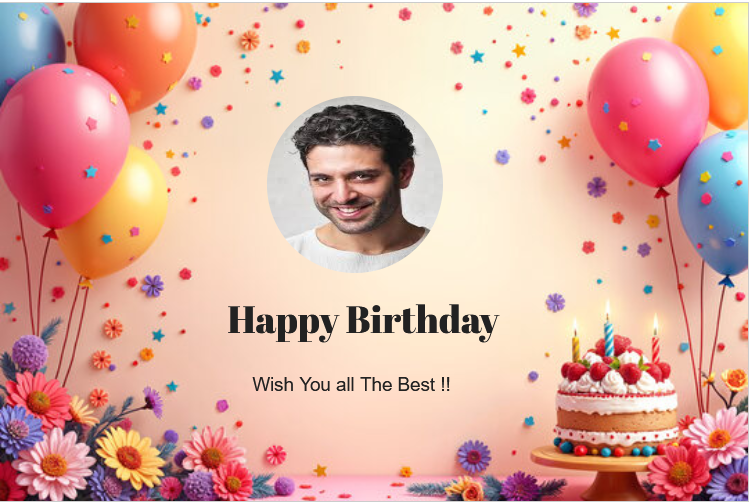
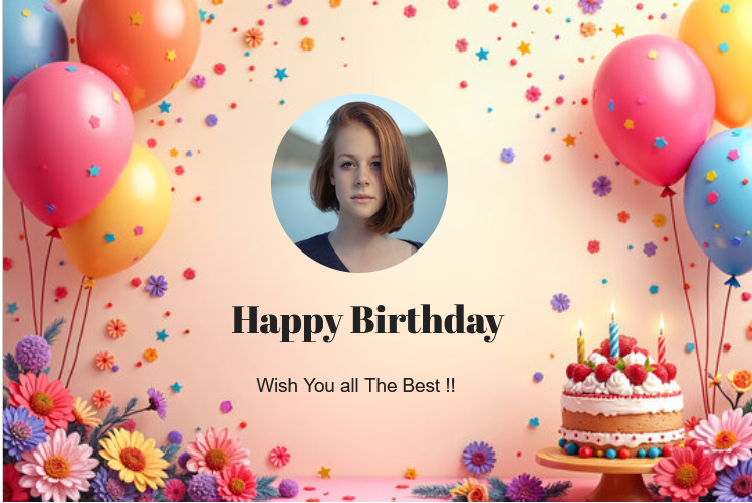
CHnages

diff --git a/database/seeders/CardTemplatesTableSeeder.php b/database/seeders/CardTemplatesTableSeeder.php
@@ -15,8 +15,8 @@ class CardTemplatesTableSeeder extends Seeder
         CardTemplates::truncate();
         DB::table('card_templates')->insert([
            [
-                'title' => 'Birthday Balloons 1',
-                'slug' => 'birthday-balloons-1',
+                'title' => 'Birthday Balloons',
+                'slug' => 'birthday-balloons',
                 'thumbnail' => '/images/greeting-cards/birthday-balloons-thumb-1.png',
                 'category' => 'Birthday',
                 'description' => 'A colorful birthday card with balloons.',
@@ -39,7 +39,7 @@ class CardTemplatesTableSeeder extends Seeder
                         [
                             'type' => 'image',
                             'id' => 'img1',
-                            'src' => '/images/greeting-cards/element/d-user.jpeg',
+                            'src' => '/images/greeting-cards/element/g-user-2.jpeg',
                             'css' => 'position: absolute;top: 70px;left: 184px;width: 200px;height: 150px;border: 1px solid rgb(136, 136, 136);cursor: move;z-index: 28;clip-path: circle(40% at 50% 50%);',
                         ],                        
                     ]
@@ -48,44 +48,38 @@ class CardTemplatesTableSeeder extends Seeder
                 'updated_at' => now(),
             ],
             [
-                'title' => 'Birthday Balloons 2',
-                'slug' => 'birthday-balloons-2',
+                'title' => 'Birthday Framing',
+                'slug' => 'birthday-framing',
                 'thumbnail' => '/images/greeting-cards/birthday-balloons-thumb-2.png',
                 'category' => 'Birthday',
                 'description' => 'A colorful birthday card with balloons.',
                 'template_data' => json_encode([
                     'bgColor' => '',
-                    'bgImage' => "/images/greeting-cards/backgrounds/birthday-12.jpg",
+                    'bgImage' => "/images/greeting-cards/backgrounds/birthday-13.jpg",
                     'elements' => [
                         [
                             'type' => 'text',
                             'id' => 'title1',
                             'text' => 'Happy Birthday',
-                            'css' => 'z-index: 48;left: 205px;top: 243px;font-family: Lato, sans-serif;font-weight: bold;font-size: 24px;color: rgb(64, 0, 64);',
+                            'css' => 'z-index: 21; left: 318px; top: 194px; font-family: Lobster, sans-serif; font-size: 30px; color: rgb(0, 0, 255);',
                         ],
                         [
                             'type' => 'text',
                             'id' => 'title2',
-                            'text' => 'Prakash Patel',
-                            'css' => 'z-index: 49;left: 222px;top: 284px;color: rgb(14, 14, 14);font-weight: bold;font-family: Lato, sans-serif;',
+                            'text' => 'Beautiful',
+                            'css' => 'z-index: 50; left: 348px; top: 239px; font-family: Pacifico, sans-serif; font-size: 30px; font-weight: bold;',
                         ],                       
                         [
                             'type' => 'image',
                             'id' => 'img1',
-                            'src' => '/images/greeting-cards/element/d-user.jpeg',
-                            'css' => 'position: absolute;top: 90px;left: 189px;width: 200px;height: 150px;border: 2px dashed rgb(0, 0, 0);cursor: move;z-index: 47;clip-path: circle(40% at 50% 50%);',
-                        ],
-                        [
-                            'type' => 'image',
-                            'id' => 'img2',
-                            'src' => '/images/greeting-cards/element/cake-1.png',
-                            'css' => 'position: absolute;top: 296px;left: 133px;width: 84px;height: 63.2353px;border: 1px rgb(0, 0, 0);cursor: move;z-index: 50;',
-                        ],
+                            'src' => '/images/greeting-cards/element/g-user-3.jpeg',
+                            'css' => 'position: absolute; top: 30px; left: 275px; width: 133px; height: 142.533px; border: 8px groove rgb(255, 255, 255); cursor: move; z-index: 51; clip-path: none;',
+                        ],                        
                         [
                             'type' => 'image',
                             'id' => 'img3',
-                            'src' => '/images/greeting-cards/element/cake-1.png',
-                            'css' => 'position: absolute;top: 294px;left: 357px;width: 97px;height: 73.0691px;border: 1px rgb(0, 0, 0);cursor: move;z-index: 44;',
+                            'src' => '/images/greeting-cards/element/g-user-3.jpeg',
+                            'css' => 'position: absolute; top: 123px; left: 159px; width: 124px; height: 136.15px; border: 8px groove rgb(255, 255, 255); cursor: move; z-index: 41; clip-path: none;',
                         ],                         
                     ]
                 ]),

diff --git a/database/seeders/TemplateBackgroundSeeder.php b/database/seeders/TemplateBackgroundSeeder.php
@@ -10,7 +10,7 @@ class TemplateBackgroundSeeder extends Seeder
 {
     public function run()
     {
-        //CardTemplateBackground::truncate();
+        CardTemplateBackground::truncate();
         $bgImages = [
             [
                 'title' => '',
@@ -71,6 +71,11 @@ class TemplateBackgroundSeeder extends Seeder
             [
                 'title' => '',
                 'image_path' => '/images/greeting-cards/backgrounds/birthday-12.jpg',
+                'category' => 'Birthday',
+            ],
+            [
+                'title' => '',
+                'image_path' => '/images/greeting-cards/backgrounds/birthday-13.jpg',
                 'category' => 'Birthday',
             ],
         ];
